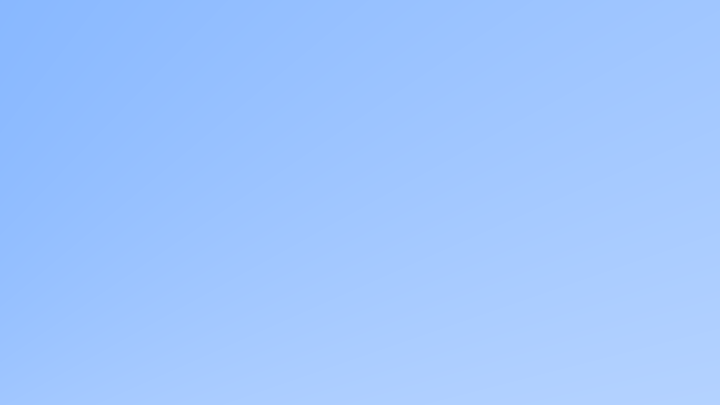
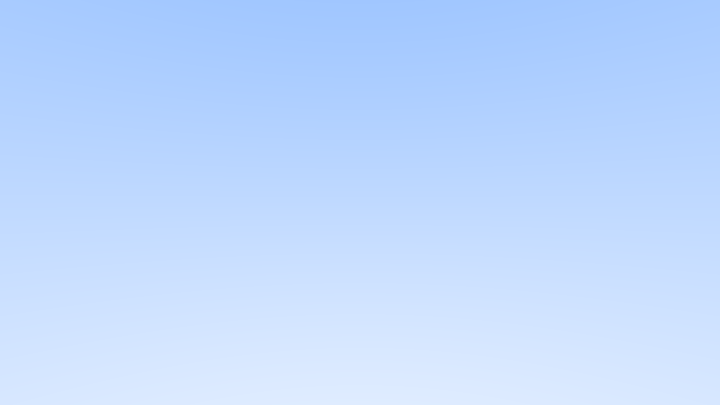
removed origin from ray::getRay function because it wasnt the cause of the noise that was encountered , The cause was that viewport height was 400.0 which is too much. +refactorization

diff --git a/Simple-Ray-tracer/Camera.h b/Simple-Ray-tracer/Camera.h
@@ -18,10 +18,12 @@ public:
 
 	ray getRay(int x, int y)
 	{
-		//origin calncels out in dir
-		return ray(origin,origin-
+		//origin calncels out
+		return ray(origin,
+			
 			- point(viewport_width / 2, viewport_height / 2, focalLength)
-			+ point(double(x) / (SCR_WIDTH - 1.0) * viewport_width, double(y) / (SCR_HEIGHT - 1.0) * viewport_height, 0)-origin);
+			+ point(double(x) / (SCR_WIDTH - 1.0) * viewport_width, double(y) / (SCR_HEIGHT - 1.0) * viewport_height, 0)
+			  );
 	}
 
 };

diff --git a/Simple-Ray-tracer/Source.cpp b/Simple-Ray-tracer/Source.cpp
@@ -11,13 +11,14 @@
 
 
 //exports file image , encompasses pixel loop
-void render(Camera&);
-//shoots ray and get backs the color of the object it hits
+void render(Camera&); 
+
+//shoots ray and gets back the color of the object it hits
 color shoot_Ray(const ray&);
 
 int main()
 {
-	Camera camera(point(0, 0, 0), 400.0, 1.0);
+	Camera camera(point(0, 0, 0), 2.0, 1.0);
 	render(camera);
 	return 0;
 }

diff --git a/Simple-Ray-tracer/ray.h b/Simple-Ray-tracer/ray.h
@@ -7,6 +7,7 @@ class ray
 public:
 	dpoint orig;
 	glm::highp_dvec3 dir;
+	
 	ray() = default;
 	ray(point origin,glm::highp_dvec3 direction):orig(origin),dir(direction){}
 	point at(double t) { return orig + t * dir; };
